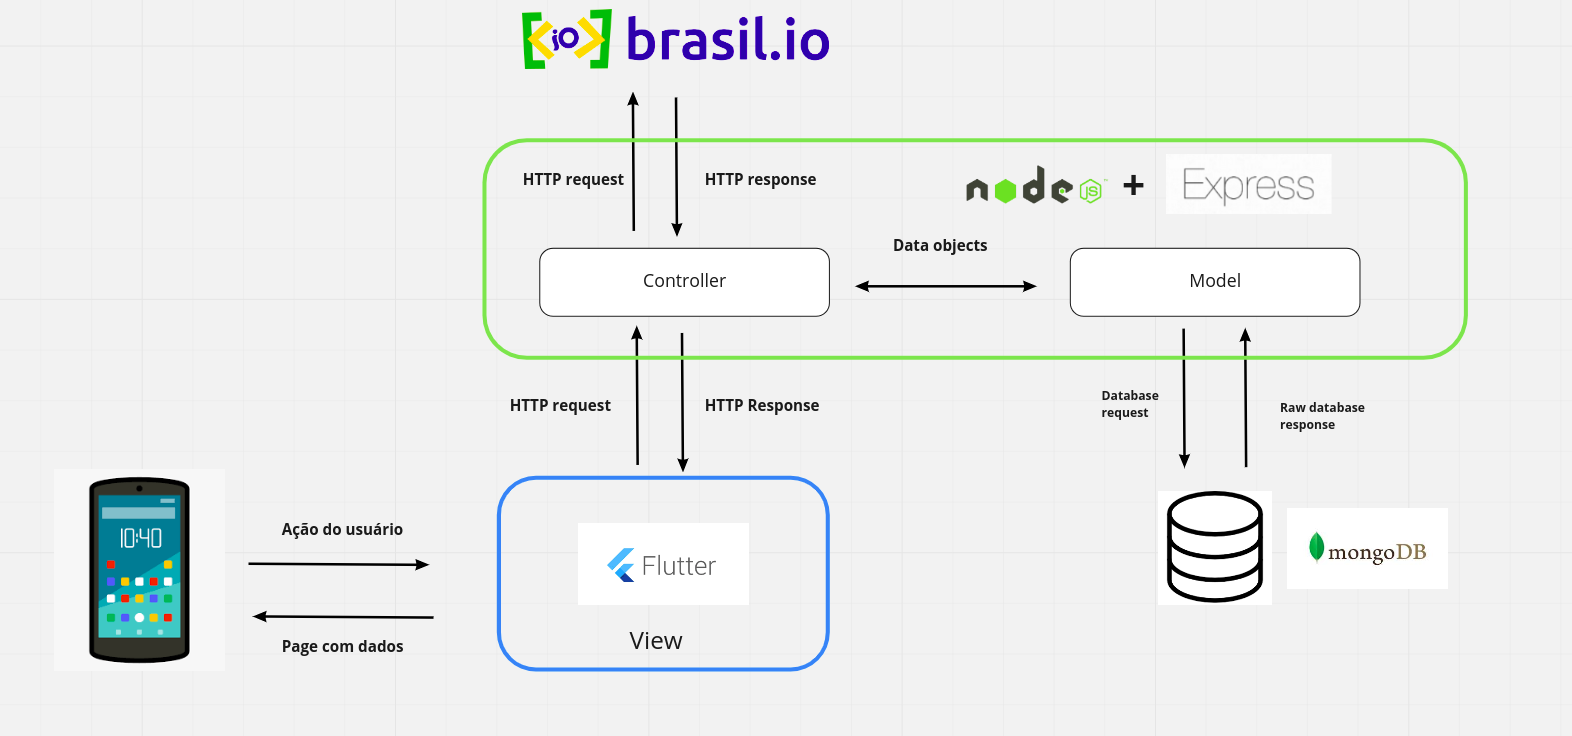
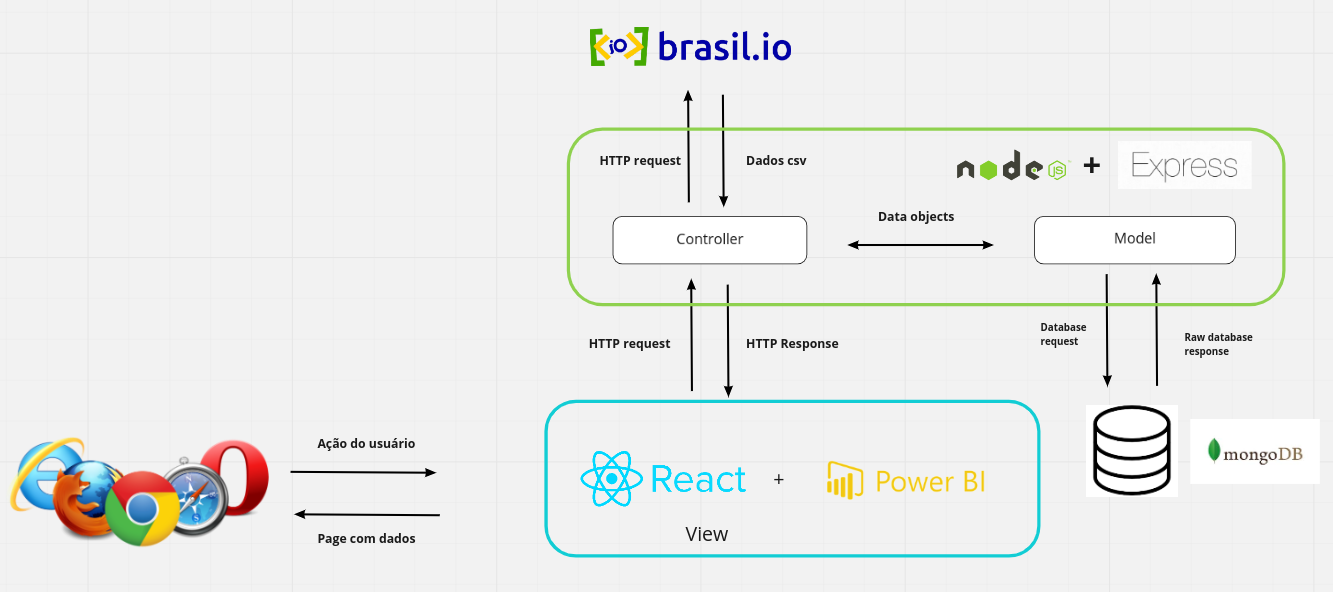
docs(#61): Atualização visão lógica

diff --git a/docs/Documento_de_Arquitetura.md b/docs/Documento_de_Arquitetura.md
@@ -8,7 +8,7 @@ Data|Versão|Descrição|Autor
 31/01/2022|1.0.1|Adição visão lógica|João Victor Correia
 15/02/2022|1.1|Mudança de tecnologia do Front-end|João Victor Correia
 06/03/2022|1.2|Adição diagrama casos de uso|Iago Cabral
-06/03/2022|1.2.1|Adição do tópico diagrama de pacotes|João Victor Correia
+06/03/2022|1.2.1|Adição do tópico diagrama de pacotes e atualização da visão lógica|João Victor Correia
 
 
 
@@ -74,6 +74,8 @@ Abreviação|Significado
 <p align = "justify" > &emsp;&emsp; Isso torna o React uma tecnologia muito flexível para a solução de problemas e para a construção de interfaces reutilizáveis, uma vez que cada um destes componentes pode ser manipulado de maneira distinta. </p>
 <p align = "justify"> &emsp;&emsp; Além disso, por ser um framework que possui uma curva de aprendizado muito boa e alguns dos integrantes do grupo já terem conhecimento prévio relacionado à linguagem, ela foi selecionada para atuar no front-end.</p>
 
+#### 2.2.2 Power BI
+<p align = "justify"> &emsp;&emsp;O objetivo do Power BI é fornecer visualizações interativas e recursos de business intelligence com uma interface simples para que os usuários finais criem os seus próprios relatórios e dashboards. Por isso, ele foi escolhido como tecnologia para lidar com os dados que serão apresentados pela aplicação
 
 ### 2.3 Banco de Dados
 
@@ -101,7 +103,7 @@ Abreviação|Significado
 
 ## 4. Visão Lógica
 ![Visão Lógica](img/visao_logica.png)
-<p align = "justify"> &emsp;&emsp; As ações do usuário no ambiente web serão interpretadas pelo React como gestos, onde cada gesto está associado com um evento que irá disparar uma ação. Algumas dessas ações poderão ser tratadas no lado do cliente (client side), como ações de iteratividade que não precisam de comunicação externa.</p>
+<p align = "justify"> &emsp;&emsp; As ações do usuário no ambiente web serão interpretadas pelo React como ações. Algumas dessas poderão ser tratadas no lado do cliente (client side), como ações de iteratividade que não precisam de comunicação externa.</p>
 
 <p align = "justify"> &emsp;&emsp;Já em outras ações será preciso consultar um banco de dados no lado do servidor (server side), assim sendo preciso enviar uma solicitação (HttpRequest) para o servidor, utilizado o protocolo de comunicação HTTP.</p>
 
@@ -110,6 +112,8 @@ Abreviação|Significado
 <p align = "justify"> &emsp;&emsp; Caso seja necessário, o controller disparará uma requisição HTTP para obter as informações desejadas. Com a resposta da API Brasil.io, o controller enviará os dados para a camada model, que salvará no banco o JSON e logo em seguida o retornará para que o controller disponibilize para a camada view, que exibirá para o cliente.  </p>
 
 <p align = "justify"> &emsp;&emsp; Caso não precise de comunicação com a API, o controller requisitará à camada model os dados já salvos previamente, e esta o retornará para que seja exibido para o cliente na camada view. </p>
+
+<p align = "justify"> &emsp;&emsp; O tratamento dos dados será feito pela ferramenta do Power BI que gerará relatórios e dashboards. Estes que serão embutidos no React via integração disponibilizada pela Microsoft </p>
 
 ### 4.1 Visão Geral: Pacotes e Camadas
 <p align = "justify"> &emsp;&emsp; O sistema será desenvolvido utilizando o Django REST Framework e o Flutter. Irão se comunicar através da API REST fornecida pelo backend do sistema. </p>
